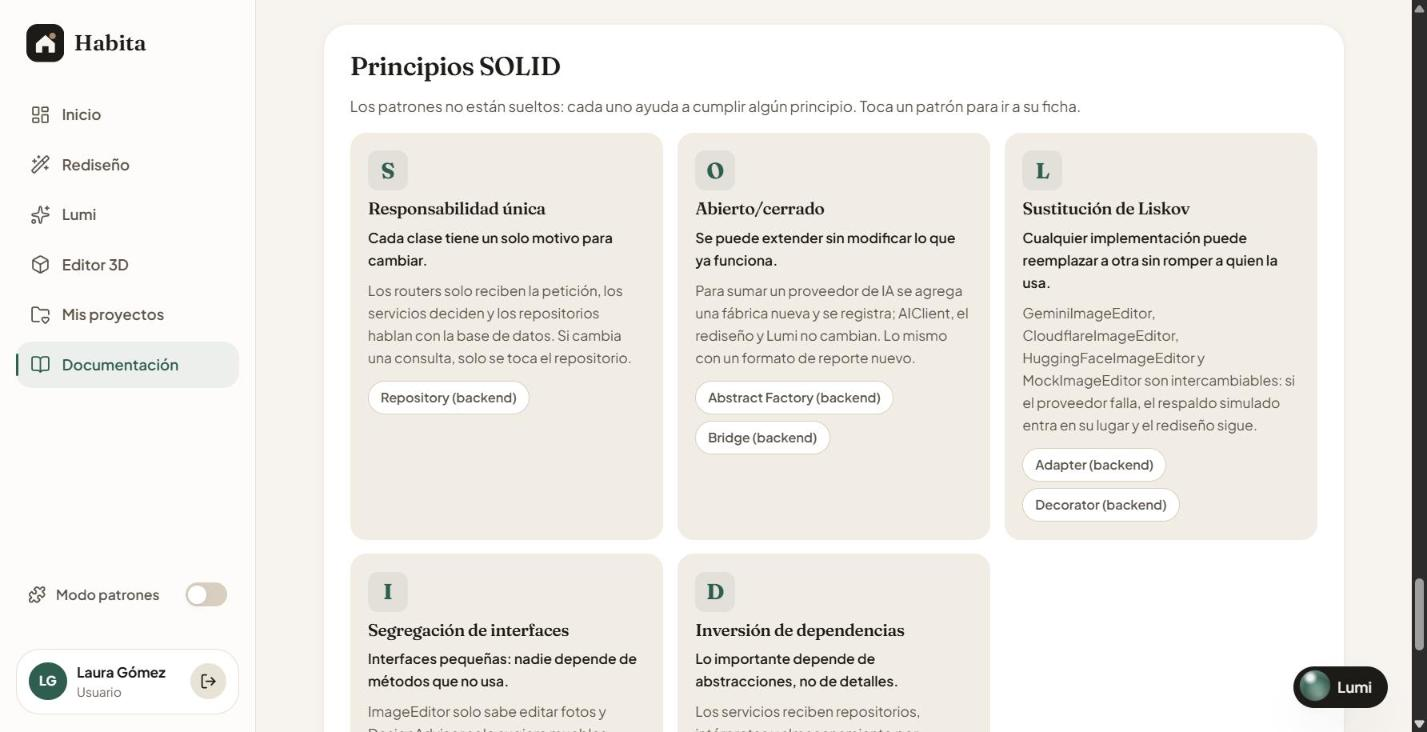
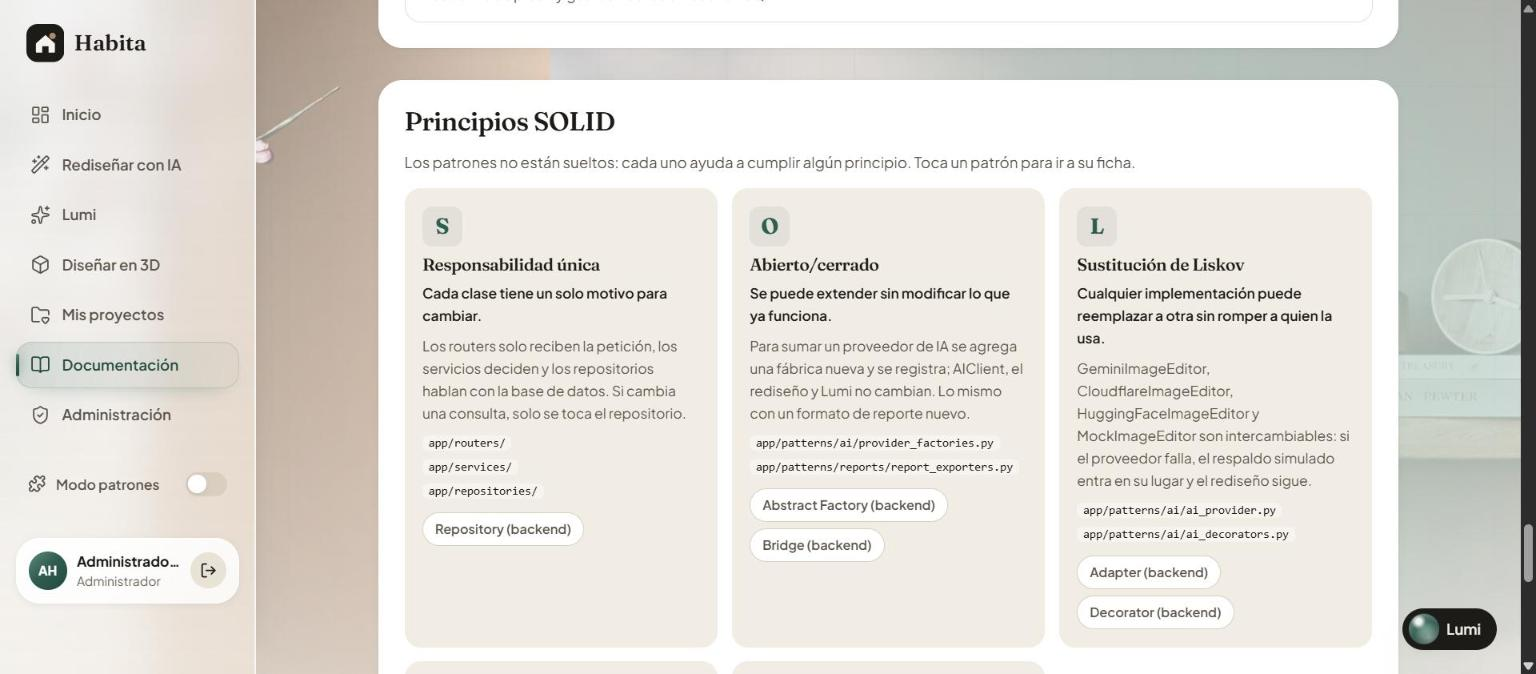
docs: final README with updated screenshots, features and patterns

diff --git a/README.md b/README.md
@@ -1,107 +1,173 @@
 <div align="center">
 
+<img src="public/favicon.svg" alt="" width="64" height="64" />
+
 # Habita · Frontend
 
 **Diseño de interiores con inteligencia artificial y modelado 3D.**
 
 Proyecto final de **Patrones de Diseño**
 
+[**Abrir la app**](https://decora-ia-frontend.vercel.app) · [Backend](https://github.com/Santiago425/decora-ia-backend) · [API (Swagger)](https://decora-ia-backend.onrender.com/api/v1/docs)
+
 ![React](https://img.shields.io/badge/React-18-61DAFB?logo=react&logoColor=black)
 ![TypeScript](https://img.shields.io/badge/TypeScript-5-3178C6?logo=typescript&logoColor=white)
 ![Vite](https://img.shields.io/badge/Vite-6-646CFF?logo=vite&logoColor=white)
 ![Three.js](https://img.shields.io/badge/Three.js-R3F-000000?logo=threedotjs&logoColor=white)
+![Vitest](https://img.shields.io/badge/Vitest-206_pruebas-6E9F18?logo=vitest&logoColor=white)
 ![Vercel](https://img.shields.io/badge/Deploy-Vercel-000000?logo=vercel&logoColor=white)
 ![CI](https://github.com/Santiago425/decora-ia-frontend/actions/workflows/ci.yml/badge.svg)
 
 </div>
 
+![Inicio de Habita en el computador](docs/screenshots/dashboard.jpg)
+
+## Contenido
+
+- [¿En qué consiste?](#en-qué-consiste)
+- [Capturas](#capturas)
+- [Funcionalidades](#funcionalidades)
+- [Guía rápida para la evaluación](#guía-rápida-para-la-evaluación)
+- [Patrones aplicados en el frontend](#patrones-aplicados-en-el-frontend)
+- [Arquitectura](#arquitectura)
+- [Calidad](#calidad)
+- [Ejecutar en local](#ejecutar-en-local)
+- [Variables de entorno](#variables-de-entorno)
+- [Estructura](#estructura)
+- [Equipo](#equipo)
+
 ## ¿En qué consiste?
 
-**Habita** permite tomar o subir una foto de un espacio, elegir un estilo y ver cómo quedaría rediseñado por la IA, armar el espacio en un editor 3D con muebles reales del catálogo, calcular un presupuesto y guardar proyectos. **Lumi**, la asistente, guía al usuario por voz o texto.
+**Habita** permite tomar o subir una foto de un espacio, elegir un estilo y ver cómo quedaría rediseñado por la IA, armar el espacio en un editor 3D con muebles reales del catálogo, sacar la lista de compras con su presupuesto y guardar todo como proyectos. **Lumi**, la asistente, guía al usuario por voz o texto y ejecuta lo que se le pide dentro de la app.
 
 | Componente | Repositorio                                                             | Producción                                          |
 | ---------- | ----------------------------------------------------------------------- | --------------------------------------------------- |
 | Frontend   | [decora-ia-frontend](https://github.com/Santiago425/decora-ia-frontend) | https://decora-ia-frontend.vercel.app               |
 | Backend    | [decora-ia-backend](https://github.com/Santiago425/decora-ia-backend)   | https://decora-ia-backend.onrender.com/api/v1/hello |
 
-## Capturas
-
-Tomadas de la app desplegada en Vercel con la cuenta de prueba.
-
-| Login con acceso de prueba                                   | Inicio                                                   |
-| ------------------------------------------------------------ | -------------------------------------------------------- |
-| ![Login](docs/screenshots/login.jpg)                         | ![Inicio](docs/screenshots/dashboard.jpg)                |
-| **Rediseño con foto (antes / después)**                      | **Ediciones puntuales sobre el rediseño**                |
-| ![Rediseño](docs/screenshots/rediseno.jpg)                   | ![Ediciones](docs/screenshots/ediciones-puntuales.jpg)   |
-| **Editor 3D**                                                | **Mis proyectos con su foto**                            |
-| ![Editor 3D](docs/screenshots/editor-3d.jpg)                 | ![Mis proyectos](docs/screenshots/mis-proyectos.jpg)     |
-| **Estilo desde una foto de inspiración**                     | **Panel de administración**                              |
-| ![Inspiración](docs/screenshots/inspiracion.jpg)             | ![Administración](docs/screenshots/admin.jpg)            |
-| **Modo patrones en el editor**                               | **Ficha de un patrón con demo y UML**                    |
-| ![Modo patrones](docs/screenshots/modo-patrones.jpg)         | ![Ficha de patrón](docs/screenshots/ficha-patron.jpg)    |
-| **Lumi**                                                     | **Lumi ejecutando órdenes en el editor**                 |
-| ![Lumi](docs/screenshots/lumi.jpg)                           | ![Lumi en el editor](docs/screenshots/lumi-editor.jpg)   |
-| **Documentación**                                            | **Principios SOLID**                                     |
-| ![Documentación](docs/screenshots/documentacion.jpg)         | ![SOLID](docs/screenshots/solid.jpg)                     |
-| **Inicio en el celular**                                     | **Lumi en el celular**                                   |
-| ![Inicio en el celular](docs/screenshots/inicio-celular.jpg) | ![Lumi en el celular](docs/screenshots/lumi-celular.jpg) |
-
-## Funcionalidades
-
-| Sección                   | Qué hace                                                                                                                                                                                                                     |
-| ------------------------- | ---------------------------------------------------------------------------------------------------------------------------------------------------------------------------------------------------------------------------- |
-| **Login y registro**      | Login con selector Usuario / Administrador, validaciones en vivo, sesión con JWT y **acceso de prueba** con un clic (las cuentas salen del backend).                                                                         |
-| **Inicio**                | Resumen de proyectos, rediseños, estilo favorito y presupuesto, con gráfica de estilos y actividad reciente.                                                                                                                 |
-| **Rediseño con foto**     | Sube o toma una foto con la cámara del celular, elige habitación, estilo, paleta y presupuesto; la IA devuelve la imagen rediseñada, colores, muebles y materiales con precio. Comparador antes / después y variaciones.     |
-| **Estilo desde una foto** | Sobre un rediseño: subir una foto de un espacio que guste; la IA describe su estilo, colores y materiales y ese texto se aplica a la foto como una versión nueva, marcada «Inspirado en tu foto».                            |
-| **Ediciones puntuales**   | Sobre un rediseño: pintar paredes, cambiar el piso, borrar un objeto o cambiar un mueble sin tocar el resto de la foto. Opción para respetar el cuarto real (paredes, ventanas y puertas) y elegir muebles que se conservan. |
-| **Editor 3D**             | Arma la habitación con muebles del catálogo: mover, rotar, duplicar, agrupar, colores, acabados y complementos, deshacer y rehacer, vista de planta, captura, versiones y guardado automático.                               |
-| **Lumi**                  | Asistente por voz o texto. Entiende lo que pides y lo hace: crea proyectos, te lleva al rediseño, agrega muebles, pinta paredes, cambia la luz o deshace cambios. Puede leer sus respuestas en voz alta.                     |
-| **Mis proyectos**         | Buscar, filtrar por estado o tipo, ordenar, renombrar, duplicar y eliminar. Cada proyecto con foto muestra su antes / después y lo abre al tocarlo.                                                                          |
-| **Administración**        | Solo para administradores: métricas de la plataforma, usuarios (rol y activación), catálogo (precios, muebles nuevos, estilos y complementos visibles) y reportes CSV.                                                       |
-| **Modo patrones**         | Interruptor del menú: cada pantalla muestra qué patrones usa; al tocar uno se abre su ficha con problema, solución, una demo interactiva y el diagrama UML.                                                                  |
-| **Documentación**         | Arquitectura, cuentas de prueba, diagrama entidad relación, cada patrón con su problema, solución, archivos y diagrama UML (Mermaid), y los principios SOLID con los patrones que los cumplen.                               |
-
-## Guía rápida para la evaluación
-
-1. Abrir https://decora-ia-frontend.vercel.app (si el backend estuvo dormido, el primer ingreso tarda unos segundos en Render).
-2. Entrar como **Usuario** con el botón de _Acceso de prueba_ (o con `usuario@habita.app` / `Habita2026`).
-3. **Rediseño:** subir una foto de una sala, elegir _Japandi_ y ver el antes / después con su presupuesto.
-4. **Editor 3D:** abrir un proyecto, mover un mueble, agregarle cojines y probar _Deshacer_ (Ctrl + Z).
-5. **Lumi:** tocar el botón flotante y decir o escribir _"agrega una planta"_ y _"pinta las paredes verde salvia"_.
-6. **Estilo desde una foto:** en el rediseño, tocar _Usar inspiración_, subir una foto que guste y _Aplicar este estilo_.
-7. **Ediciones puntuales:** en el rediseño, tocar _Editar una parte_ y pintar las paredes de otro color.
-8. **Modo patrones:** activar el interruptor del menú y tocar un patrón para ver su ficha, su demo y su UML.
-9. **Documentación:** mostrar los patrones con sus diagramas UML, los principios SOLID y el diagrama de la base de datos.
-10. Cerrar sesión y entrar como **Administrador** con `admin@habita.app` / `Habita2026` para ver métricas, usuarios, catálogo y reportes.
-
-## Patrones aplicados en el frontend
-
-| Patrón               | Tipo           | Dónde                                                                      | Para qué                                                                                                                                                                                           |
-| -------------------- | -------------- | -------------------------------------------------------------------------- | -------------------------------------------------------------------------------------------------------------------------------------------------------------------------------------------------- |
-| **Singleton**        | Creacional     | [`src/services/apiClient.ts`](src/services/apiClient.ts)                   | Un único cliente HTTP con el token de la sesión para toda la app.                                                                                                                                  |
-| **Observer**         | Comportamiento | [`src/services/notificationCenter.ts`](src/services/notificationCenter.ts) | Cualquier parte de la app publica un aviso y los suscriptores (como el `Toaster`) reaccionan sin conocerse entre sí.                                                                               |
-| **Proxy**            | Estructural    | [`src/components/ImageProxy.tsx`](src/components/ImageProxy.tsx)           | Ocupa el lugar de la imagen real: la carga solo cuando entra en pantalla y muestra un marcador mientras tanto.                                                                                     |
-| **Command**          | Comportamiento | [`src/editor/commands.ts`](src/editor/commands.ts)                         | Agregar, mover, rotar, eliminar, cambiar color o complementos, agrupar y restaurar versiones son objetos que saben aplicarse y revertirse: así funcionan deshacer y rehacer (Ctrl + Z / Ctrl + Y). |
-| **Factory Method**   | Creacional     | [`src/editor/furnitureFactory.ts`](src/editor/furnitureFactory.ts)         | Cada tipo de mueble (sofá, cama, mesa, silla, lámpara, planta…) tiene su fábrica que decide de qué piezas 3D está hecho; la forma viene de la categoría guardada en la base de datos.              |
-| **Composite**        | Estructural    | [`src/editor/composite.ts`](src/editor/composite.ts)                       | Un mueble, un grupo de muebles y la habitación completa se cotizan, cuentan, mueven y duplican de la misma forma.                                                                                  |
-| **Prototype**        | Creacional     | [`src/editor/composite.ts`](src/editor/composite.ts)                       | Duplicar un mueble o un grupo clona la pieza con identificadores nuevos.                                                                                                                           |
-| **Decorator**        | Estructural    | [`src/editor/furnitureDecorators.ts`](src/editor/furnitureDecorators.ts)   | Cojines, manta, cubierta de vidrio, patas de latón o luz LED envuelven al mueble y le suman precio y apariencia sin modificar su clase.                                                            |
-| **Abstract Factory** | Creacional     | [`src/editor/styleTheme.ts`](src/editor/styleTheme.ts)                     | `StyleThemeFactory`: cada estilo produce una familia coherente de luz, acabado de paredes, piso y colores de acento.                                                                               |
-| **Observer**         | Comportamiento | [`src/editor/editorStore.ts`](src/editor/editorStore.ts)                   | El lienzo 3D, los paneles y la barra de herramientas se suscriben al estado del editor y se actualizan cuando cambia la escena.                                                                    |
-| **Adapter**          | Estructural    | [`src/assistant/voiceAdapter.ts`](src/assistant/voiceAdapter.ts)           | `VoiceAdapter` envuelve el reconocimiento de voz y la síntesis del navegador (con nombres distintos según el navegador) en una interfaz simple: escuchar, hablar y detener.                        |
-| **Observer**         | Comportamiento | [`src/assistant/assistantBus.ts`](src/assistant/assistantBus.ts)           | Lumi publica sus acciones y quien puede ejecutarlas se suscribe: el enrutador abre páginas y proyectos, el editor 3D agrega muebles, cambia paredes, luz o estilo y deshace.                       |
-| **Strategy**         | Comportamiento | [`src/projects/projectQuery.ts`](src/projects/projectQuery.ts)             | Mis proyectos se ordena por fecha, nombre o presupuesto: cada orden es una estrategia intercambiable.                                                                                              |
-| **Observer**         | Comportamiento | [`src/assistant/chatStore.ts`](src/assistant/chatStore.ts)                 | El chat flotante y la página de Lumi comparten la misma conversación y se mantienen sincronizados.                                                                                                 |
-
-## Cuentas de prueba
-
 | Rol           | Correo               | Contraseña   |
 | ------------- | -------------------- | ------------ |
 | Usuario       | `usuario@habita.app` | `Habita2026` |
 | Administrador | `admin@habita.app`   | `Habita2026` |
 
-Las crea el script de semilla del backend; la contraseña sale de la variable `DEMO_PASSWORD`.
+En el login también está el **acceso de prueba**: un clic y se entra con cualquiera de las dos cuentas. Las crea el script de semilla del backend y la contraseña sale de la variable `DEMO_PASSWORD`.
+
+## Capturas
+
+Tomadas de la app desplegada en Vercel con las cuentas de prueba.
+
+### En el computador
+
+| Login con acceso de prueba                            | Rediseñar con IA                                                    |
+| ----------------------------------------------------- | ------------------------------------------------------------------- |
+| ![Login](docs/screenshots/login.jpg)                  | ![Formulario de rediseño](docs/screenshots/rediseno-formulario.jpg) |
+| **Rediseño real con FLUX Kontext: antes y después**   | **Ediciones puntuales sobre el rediseño**                           |
+| ![Rediseño](docs/screenshots/rediseno.jpg)            | ![Ediciones puntuales](docs/screenshots/ediciones-puntuales.jpg)    |
+| **Editor 3D con medidas y un mueble seleccionado**    | **Recorrido a la altura de los ojos**                               |
+| ![Editor 3D](docs/screenshots/editor-3d.jpg)          | ![Recorrido](docs/screenshots/recorrido.jpg)                        |
+| **Lista de compras con presupuesto**                  | **Mis proyectos con filtros**                                       |
+| ![Lista de compras](docs/screenshots/compras.jpg)     | ![Mis proyectos](docs/screenshots/mis-proyectos.jpg)                |
+| **Lumi**                                              | **Estilo desde una foto de inspiración**                            |
+| ![Lumi](docs/screenshots/lumi.jpg)                    | ![Inspiración](docs/screenshots/inspiracion.jpg)                    |
+| **Panel de administración**                           | **Modo patrones (administradores)**                                 |
+| ![Administración](docs/screenshots/admin.jpg)         | ![Modo patrones](docs/screenshots/modo-patrones.jpg)                |
+| **Ficha de un patrón con su UML**                     | **Documentación y principios SOLID**                                |
+| ![Ficha de patrón](docs/screenshots/ficha-patron.jpg) | ![SOLID](docs/screenshots/solid.jpg)                                |
+
+### En el celular
+
+<!-- mobile-gallery -->
+
+| Inicio                                                       | Lumi                                                     |
+| ------------------------------------------------------------ | -------------------------------------------------------- |
+| ![Inicio en el celular](docs/screenshots/inicio-celular.jpg) | ![Lumi en el celular](docs/screenshots/lumi-celular.jpg) |
+
+<!-- /mobile-gallery -->
+
+## Funcionalidades
+
+| Sección                   | Qué hace                                                                                                                                                                                                                                                                                       |
+| ------------------------- | ---------------------------------------------------------------------------------------------------------------------------------------------------------------------------------------------------------------------------------------------------------------------------------------------- |
+| **Login y registro**      | Login sobre fotos de interiores con un cuarto 3D, selector Usuario / Administrador, validaciones en vivo, sesión con JWT y **acceso de prueba** con un clic (las cuentas salen del backend).                                                                                                   |
+| **Inicio**                | Saludo con accesos directos, totales (proyectos, rediseños, estilo favorito, presupuesto), últimos proyectos con su antes / después, progreso por estado, galería de inspiración en coverflow y los **17 estilos** del catálogo.                                                               |
+| **Rediseñar con IA**      | Sube o toma una foto con la cámara del celular, elige habitación, estilo, paleta y presupuesto. **FLUX Kontext** (Hugging Face) devuelve la foto rediseñada y Gemini los colores, muebles y materiales con precio. Comparador antes / después, otra versión, versiones por proyecto y borrado. |
+| **Ediciones puntuales**   | Sobre un rediseño: pintar paredes, cambiar el piso, borrar un objeto o cambiar un mueble sin tocar el resto de la foto. Opción para respetar el cuarto real (paredes, ventanas y puertas) y elegir muebles que se conservan.                                                                   |
+| **Estilo desde una foto** | Se sube una foto de un espacio que guste; la IA describe su estilo, colores y materiales y ese texto se aplica a la foto como una versión nueva, marcada «Inspirado en tu foto».                                                                                                               |
+| **Errores claros**        | Si el proveedor de imágenes falla o devuelve la misma foto, la app lo dice y ofrece reintentar, en vez de mostrar una copia como si fuera un rediseño.                                                                                                                                         |
+| **Diseñar en 3D**         | Proyecto nuevo con tipo de habitación, estilo y **medidas del cuarto** (o tamaños rápidos). El catálogo sugiere los muebles **del tipo de habitación**. Mover, rotar, duplicar, agrupar, **cambiar el tamaño**, pegar a la pared, colores, acabados y complementos; deshacer y rehacer.        |
+| **Medidas y recorrido**   | Guías de medidas con distancias a las paredes, aviso cuando dos muebles **se cruzan**, vista de planta, **recorrido** a la altura de los ojos desde cada esquina, **tono de luz**, captura, versiones y guardado automático.                                                                   |
+| **Lista de compras**      | Cada proyecto saca su lista: muebles, complementos y acabados con cantidades calculadas desde la escena y precios del catálogo. Presupuesto con medidor, marcar lo ya comprado, incluir las ideas del rediseño, descarga en CSV e impresión o PDF.                                             |
+| **Lumi**                  | Asistente por voz o texto. Entiende lo que pides y lo hace: crea proyectos, te lleva al rediseño, agrega muebles, pinta paredes, cambia la luz o deshace cambios. Puede leer sus respuestas en voz alta.                                                                                       |
+| **Mis proyectos**         | Buscar, filtrar por estado, tipo, estilo, habitación y fecha, ordenar, renombrar, duplicar, ir a la lista de compras y eliminar. Cada proyecto con foto muestra su antes / después y lo abre al tocarlo.                                                                                       |
+| **Administración**        | Solo para administradores: métricas de la plataforma, usuarios (rol y activación), catálogo (precios, muebles nuevos, estilos y complementos visibles) y reportes CSV / JSON.                                                                                                                  |
+| **Modo patrones**         | Para administradores: un interruptor del menú muestra qué patrones usa cada pantalla; al tocar uno se abre su ficha con problema, solución, una demo interactiva y el diagrama UML.                                                                                                            |
+| **Documentación**         | Para administradores: arquitectura, cuentas de prueba, diagrama entidad relación, los 23 patrones con su problema, solución, archivos y diagrama UML (Mermaid), y los principios SOLID con los patrones que los cumplen.                                                                       |
+| **Diseño visual**         | Paleta lino con acento salvia (`#2f5d50`), tarjetas de vidrio esmerilado, fondo de fotos de interiores animado detrás de cada página, intro 3D, tarjetas con inclinación y volteo, y carga diferida de cada página.                                                                            |
+| **Celular**               | Menú inferior con «Más», cámara para la foto, editor 3D con panel deslizable desde abajo y todas las secciones adaptadas a pantallas pequeñas.                                                                                                                                                 |
+
+## Guía rápida para la evaluación
+
+1. Abrir https://decora-ia-frontend.vercel.app (si el backend estuvo dormido, el primer ingreso tarda unos segundos en Render).
+2. Entrar como **Usuario** con el botón de _Acceso de prueba_.
+3. **Rediseño:** subir una foto de una sala, elegir _Industrial_ y ver el antes / después con su presupuesto. Probar _Otra versión igual_ o _Probar con otras opciones_.
+4. **Ediciones puntuales:** en el rediseño, tocar _Editar una parte_ y pintar las paredes de otro color.
+5. **Estilo desde una foto:** en el rediseño, tocar _Usar inspiración_, subir una foto que guste y _Aplicar este estilo_.
+6. **Editor 3D:** en _Diseñar en 3D_ crear una sala de 5 × 4 m, tocar el sofá, activar _Medidas_, cambiarle el tamaño, probar _Recorrido_ y _Deshacer_ (Ctrl + Z).
+7. **Lista de compras:** desde el editor o desde _Mis proyectos_, abrir la bolsa, fijar un presupuesto y marcar algo como comprado.
+8. **Lumi:** tocar el botón flotante y decir o escribir _"agrega una planta"_ y _"pinta las paredes verde salvia"_.
+9. Cerrar sesión y entrar como **Administrador** para ver métricas, usuarios, catálogo y reportes.
+10. Como administrador, activar **Modo patrones** en el menú y tocar un patrón para ver su ficha, su demo y su UML; luego abrir **Documentación** para los diagramas, los principios SOLID y la base de datos.
+
+## Patrones aplicados en el frontend
+
+El proyecto aplica **23 patrones** en **36 usos** entre los dos repositorios. Estos son los del frontend; los del backend están en su [README](https://github.com/Santiago425/decora-ia-backend#patrones-aplicados).
+
+| Patrón               | Tipo           | Dónde                                                                                                        | Para qué                                                                                                                                                                                     |
+| -------------------- | -------------- | ------------------------------------------------------------------------------------------------------------ | -------------------------------------------------------------------------------------------------------------------------------------------------------------------------------------------- |
+| **Singleton**        | Creacional     | [`src/services/apiClient.ts`](src/services/apiClient.ts)                                                     | Un único cliente HTTP con el token de la sesión para toda la app.                                                                                                                            |
+| **Factory Method**   | Creacional     | [`src/editor/furnitureFactory.ts`](src/editor/furnitureFactory.ts)                                           | Cada tipo de mueble (sofá, cama, mesa, silla, lámpara, planta…) tiene su fábrica que decide de qué piezas 3D está hecho; la forma viene de la categoría guardada en la base de datos.        |
+| **Abstract Factory** | Creacional     | [`src/editor/styleTheme.ts`](src/editor/styleTheme.ts)                                                       | `StyleThemeFactory`: cada estilo produce una familia coherente de luz, acabado de paredes, piso y colores de acento.                                                                         |
+| **Prototype**        | Creacional     | [`src/editor/composite.ts`](src/editor/composite.ts)                                                         | Duplicar un mueble o un grupo clona la pieza con identificadores nuevos.                                                                                                                     |
+| **Composite**        | Estructural    | [`src/editor/composite.ts`](src/editor/composite.ts)                                                         | Un mueble, un grupo de muebles y la habitación completa se cotizan, cuentan, mueven y duplican de la misma forma.                                                                            |
+| **Decorator**        | Estructural    | [`src/editor/furnitureDecorators.ts`](src/editor/furnitureDecorators.ts)                                     | Cojines, manta, cubierta de vidrio, patas de latón o luz LED envuelven al mueble y le suman precio y apariencia sin modificar su clase.                                                      |
+| **Adapter**          | Estructural    | [`src/assistant/voiceAdapter.ts`](src/assistant/voiceAdapter.ts)                                             | `VoiceAdapter` envuelve el reconocimiento de voz y la síntesis del navegador (con nombres distintos según el navegador) en una interfaz simple: escuchar, hablar y detener.                  |
+| **Proxy**            | Estructural    | [`src/components/ImageProxy.tsx`](src/components/ImageProxy.tsx)                                             | Ocupa el lugar de la imagen real: la carga solo cuando entra en pantalla y muestra un marcador mientras tanto.                                                                               |
+| **Proxy virtual**    | Estructural    | [`src/utils/lazyWithPreload.ts`](src/utils/lazyWithPreload.ts), [`src/routes/pages.ts`](src/routes/pages.ts) | Cada página se descarga solo cuando hace falta, y se adelanta al pasar el mouse o el dedo por su enlace.                                                                                     |
+| **Command**          | Comportamiento | [`src/editor/commands.ts`](src/editor/commands.ts)                                                           | Agregar, mover, rotar, cambiar tamaño, eliminar, cambiar color o complementos, agrupar y restaurar versiones son objetos que saben aplicarse y revertirse: así funcionan deshacer y rehacer. |
+| **Mediator**         | Comportamiento | [`src/editor/editorMediator.ts`](src/editor/editorMediator.ts)                                               | El lienzo, el catálogo, el inspector, el teclado y Lumi no se hablan entre sí: todos pasan por `EditorMediator`, que decide qué comando ejecutar y qué panel mostrar.                        |
+| **Strategy**         | Comportamiento | [`src/projects/projectQuery.ts`](src/projects/projectQuery.ts)                                               | Mis proyectos se ordena por fecha, nombre o presupuesto: cada orden es una estrategia intercambiable.                                                                                        |
+| **Observer**         | Comportamiento | [`src/services/notificationCenter.ts`](src/services/notificationCenter.ts)                                   | Cualquier parte de la app publica un aviso y los suscriptores (como el `Toaster`) reaccionan sin conocerse entre sí.                                                                         |
+| **Observer**         | Comportamiento | [`src/editor/editorStore.ts`](src/editor/editorStore.ts)                                                     | El lienzo 3D, los paneles y la barra de herramientas se suscriben al estado del editor y se actualizan cuando cambia la escena.                                                              |
+| **Observer**         | Comportamiento | [`src/assistant/assistantBus.ts`](src/assistant/assistantBus.ts)                                             | Lumi publica sus acciones y quien puede ejecutarlas se suscribe: el enrutador abre páginas y proyectos, el editor 3D agrega muebles, cambia paredes, luz o estilo y deshace.                 |
+| **Observer**         | Comportamiento | [`src/assistant/chatStore.ts`](src/assistant/chatStore.ts)                                                   | El chat flotante y la página de Lumi comparten la misma conversación y se mantienen sincronizados.                                                                                           |
+
+## Arquitectura
+
+```mermaid
+flowchart LR
+    P[pages<br/>pantallas] --> C[components<br/>piezas de interfaz]
+    P --> S[services<br/>un servicio por recurso]
+    S --> A[apiClient<br/>Singleton con JWT]
+    A -->|REST| B[(Backend FastAPI)]
+    P --> E[editor<br/>comandos, mediador, composite]
+    E --> T[components/editor<br/>React Three Fiber]
+    L[assistant<br/>Lumi, voz y bus] -.acciones.-> E
+    L -.acciones.-> P
+```
+
+- **Nada quemado:** textos de la marca, URL del backend, tiempos, medidas del editor, moneda y fotos salen de [`src/config.ts`](src/config.ts), que lee las variables `VITE_*`; el catálogo, los estilos y los precios vienen del backend.
+- **Carga diferida:** cada página y las piezas pesadas (Three.js, Mermaid, gráficas) van en su propio paquete.
+- **Accesibilidad:** navegación con teclado en pestañas y diálogos, etiquetas en todos los controles y `eslint-plugin-jsx-a11y` en el CI.
+
+## Calidad
+
+- **206 pruebas** en 48 archivos con Vitest:
+  - **Interfaz** (Testing Library + jsdom), con los flujos principales de punta a punta: **login** (validaciones, error del servidor, acceso de prueba), **rediseño** (foto, habitación y estilo, antes / después, error y reintento, nueva versión), **editor 3D** (muebles sugeridos, agregar, deshacer y rehacer, eliminar, guardado automático, órdenes de Lumi, solo lectura), **Lumi** (historial, mensajes, sugerencias que ejecutan acciones, borrar), **Mis proyectos** (filtros, renombrar, duplicar, eliminar) y **administración** (totales, roles, activar cuentas, reportes). También botones, pestañas con teclado, paginador, formularios, diálogos, rutas protegidas y la lista de compras.
+  - **Lógica:** comandos de deshacer / rehacer, fábricas de muebles, composite, mediador del editor, guías de medidas y choques, recorrido, filtros y orden de proyectos, bus de Lumi, conversación, adaptador de voz, modo patrones, formatos y validaciones.
+- **ESLint** (typescript-eslint, react-hooks, jsx-a11y) y **Prettier** sin advertencias.
+- **Integración continua** con GitHub Actions: en cada push y pull request se ejecutan lint, formato, pruebas, compilación y la imagen de Docker.
+- Revisión manual en PC y celular de la app desplegada.
+- Despliegue automático en **Vercel** desde `main`, con cabeceras de seguridad (CSP, HSTS, permisos de cámara y micrófono) en [`vercel.json`](vercel.json).
 
 ## Ejecutar en local
 
@@ -111,7 +177,7 @@ cp .env.example .env
 npm run dev        # http://localhost:5173
 npm run lint       # ESLint (typescript-eslint, react-hooks, jsx-a11y)
 npm run format     # Prettier
-npm test
+npm test           # Vitest
 npm run build
 ```
 
@@ -122,65 +188,59 @@ docker build -t habita-frontend --build-arg VITE_API_URL=http://localhost:8000 .
 docker run -p 8080:80 habita-frontend      # http://localhost:8080
 ```
 
-## Calidad
-
-- **107 pruebas** con Vitest:
-  - **Lógica:** comandos de deshacer / rehacer, fábricas de muebles, composite, mediador del editor, filtros y orden de proyectos, bus de Lumi, conversación, adaptador de voz, modo patrones, formatos y validaciones.
-  - **Interfaz** (Testing Library + jsdom): botones, pestañas con teclado, paginador, campos de formulario, diálogo de confirmación, acceso de prueba, rutas protegidas y el flujo completo del login.
-- **ESLint** (typescript-eslint, react-hooks, jsx-a11y) y **Prettier** sin advertencias.
-- **Integración continua** con GitHub Actions: en cada push y pull request se ejecutan lint, formato, pruebas, compilación y la imagen de Docker.
-- Revisión manual en PC y celular antes de la entrega.
-- Despliegue automático en **Vercel** desde `main`, con cabeceras de seguridad (CSP, HSTS, permisos de cámara y micrófono) en [`vercel.json`](vercel.json).
-
 ## Variables de entorno
 
 Todas están documentadas en [`.env.example`](.env.example) y se leen en un único módulo: [`src/config.ts`](src/config.ts).
 
-| Variable                                                                               | Para qué                                                                               |
-| -------------------------------------------------------------------------------------- | -------------------------------------------------------------------------------------- |
-| `VITE_APP_NAME`                                                                        | Nombre de la app en la interfaz                                                        |
-| `VITE_ASSISTANT_NAME`                                                                  | Nombre de la asistente (el reconocimiento y la voz usan `VITE_LOCALE`)                 |
-| `VITE_API_URL` / `VITE_API_PREFIX`                                                     | Dirección del backend                                                                  |
-| `VITE_REQUEST_TIMEOUT_MS`                                                              | Tiempo máximo de espera de una petición                                                |
-| `VITE_AI_TIMEOUT_MS`                                                                   | Tiempo máximo de espera de un rediseño con IA                                          |
-| `VITE_MAX_PHOTO_SIDE`                                                                  | Tamaño máximo al que se reduce la foto antes de subirla                                |
-| `VITE_CURRENCY` / `VITE_LOCALE`                                                        | Moneda y formato de precios                                                            |
-| `VITE_EDITOR_SNAP`, `VITE_EDITOR_MOVE_STEP`, `VITE_EDITOR_ROTATE_STEP`                 | Cuadrícula, paso al mover con flechas y grados al rotar en el editor 3D                |
-| `VITE_EDITOR_HISTORY_LIMIT`, `VITE_EDITOR_AUTOSAVE_MS`, `VITE_EDITOR_DUPLICATE_OFFSET` | Pasos que se pueden deshacer, espera del guardado automático y separación de una copia |
-| `VITE_AUTH_IMAGE_URL`                                                                  | Foto de fondo del login                                                                |
-| `VITE_DASHBOARD_BANNER_URL`                                                            | Foto del banner del inicio                                                             |
-| `VITE_DASHBOARD_BACKDROP_URL` / `VITE_EMPTY_STATE_IMAGE_URL`                           | Foto de fondo del inicio y foto de los estados vacíos                                  |
-| `VITE_PHOTO_INTERVAL_MS`                                                               | Tiempo que se muestra cada foto de un carrusel                                         |
-| `VITE_DEV_PORT`                                                                        | Puerto del servidor de desarrollo                                                      |
-| `VITE_PHOTO_CREDITS_NAME` / `VITE_PHOTO_CREDITS_URL`                                   | Créditos de las fotos                                                                  |
+| Variable                                                                                 | Para qué                                                                               |
+| ---------------------------------------------------------------------------------------- | -------------------------------------------------------------------------------------- |
+| `VITE_APP_NAME`                                                                          | Nombre de la app en la interfaz                                                        |
+| `VITE_ASSISTANT_NAME`                                                                    | Nombre de la asistente (el reconocimiento y la voz usan `VITE_LOCALE`)                 |
+| `VITE_API_URL` / `VITE_API_PREFIX`                                                       | Dirección del backend                                                                  |
+| `VITE_REQUEST_TIMEOUT_MS` / `VITE_AI_TIMEOUT_MS`                                         | Tiempo máximo de espera de una petición normal y de un rediseño con IA                 |
+| `VITE_MAX_PHOTO_SIDE`                                                                    | Tamaño máximo al que se reduce la foto antes de subirla                                |
+| `VITE_CURRENCY` / `VITE_LOCALE`                                                          | Moneda y formato de precios                                                            |
+| `VITE_EDITOR_SNAP`, `VITE_EDITOR_MOVE_STEP`, `VITE_EDITOR_ROTATE_STEP`                   | Cuadrícula, paso al mover con flechas y grados al rotar en el editor 3D                |
+| `VITE_EDITOR_HISTORY_LIMIT`, `VITE_EDITOR_AUTOSAVE_MS`, `VITE_EDITOR_DUPLICATE_OFFSET`   | Pasos que se pueden deshacer, espera del guardado automático y separación de una copia |
+| `VITE_EDITOR_OVERLAP_TOLERANCE`, `VITE_EDITOR_EYE_HEIGHT`                                | Margen para avisar que dos muebles se cruzan y altura de la cámara en el recorrido     |
+| `VITE_ROOM_SIZE_PRESETS`                                                                 | Tamaños rápidos del cuarto al crear un proyecto 3D                                     |
+| `VITE_EDITOR_RESIZE_MIN_FACTOR` / `VITE_EDITOR_RESIZE_MAX_FACTOR`                        | Cuánto puede encogerse o crecer un mueble respecto a su tamaño de catálogo             |
+| `VITE_AUTH_IMAGE_URL`, `VITE_SIDEBAR_PHOTO_URL`, `VITE_PAGE_BACKDROP_URL`                | Fotos del login, de la tarjeta del menú y del fondo animado de cada página             |
+| `VITE_DASHBOARD_BANNER_URL`, `VITE_DASHBOARD_BACKDROP_URL`, `VITE_EMPTY_STATE_IMAGE_URL` | Fotos del banner del inicio, de los estados vacíos y de la página 404                  |
+| `VITE_PHOTO_WIDTHS`, `VITE_PHOTO_DEFAULT_WIDTH`, `VITE_PHOTO_QUALITY`                    | Anchos y calidad con que se piden las fotos de fondo para que se vean nítidas          |
+| `VITE_PHOTO_INTERVAL_MS`                                                                 | Tiempo que se muestra cada foto de un carrusel                                         |
+| `VITE_RECENT_REDESIGNS_LIMIT`                                                            | Cuántos rediseños recientes se muestran debajo del formulario                          |
+| `VITE_PHOTO_CREDITS_NAME` / `VITE_PHOTO_CREDITS_URL`                                     | Créditos de las fotos                                                                  |
+| `VITE_DEV_PORT`                                                                          | Puerto del servidor de desarrollo                                                      |
 
 ## Estructura
 
 ```
 src/
-├── config.ts        Configuración leída de VITE_*
-├── pages/           Login, Register, Dashboard…
-├── components/layout/ Menú lateral y menú inferior del celular
-├── components/dashboard/ Tarjetas, gráfica, actividad y proyectos
-├── components/editor/ Lienzo 3D (React Three Fiber), catálogo, propiedades y versiones
-├── editor/          Lógica del editor 3D: comandos, fábricas, composite, decoradores, temas
-├── components/admin/ Panel de administración: resumen, usuarios, catálogo y reportes
-├── components/docs/ Diagramas UML con Mermaid
-├── docs/            Contenido de la sección Documentación (patrones, arquitectura, diagrama ER)
-├── projects/        Búsqueda, filtros y orden de Mis proyectos
-├── components/assistant/ Chat de Lumi, botón flotante y ejecutor de acciones
-├── assistant/       Voz (Adapter), bus de acciones y conversación (Observer)
-├── patterns/        Modo patrones: qué patrones usa cada pantalla
-├── routes/          Páginas con carga diferida
-├── test/            Configuración de las pruebas de interfaz
-├── components/ui/   Botón, pestañas, paginador, modal y otras piezas compartidas
-├── components/      Piezas reutilizables de la interfaz
-├── context/         Sesión del usuario
-├── hooks/           Hooks propios
-├── services/        Cliente API y servicios
-├── styles/          Tokens de diseño y estilos
-├── types/           Tipos compartidos
-└── utils/           Validaciones
+├── config.ts                 Configuración leída de VITE_*
+├── navigation.ts             Menú lateral y menú inferior (con los roles que ven cada sección)
+├── pages/                    Una pantalla por ruta, con sus pruebas de interfaz
+├── routes/                   Páginas con carga diferida (Proxy virtual)
+├── components/
+│   ├── layout/               Menú lateral, menú inferior del celular y fondo animado
+│   ├── dashboard/            Tarjetas, progreso y proyectos del inicio
+│   ├── redesign/             Foto, opciones, comparador, versiones, ediciones e inspiración
+│   ├── editor/               Lienzo 3D (React Three Fiber), catálogo, inspector, habitación y versiones
+│   ├── assistant/            Chat de Lumi, botón flotante y esfera 3D
+│   ├── admin/                Resumen, usuarios, catálogo y reportes
+│   ├── patterns/, docs/      Modo patrones, fichas, demos y diagramas UML con Mermaid
+│   ├── three/, motion/       Escenas 3D del login y la intro, inclinación, volteo y coverflow
+│   └── ui/                   Botón, pestañas, paginador, chips y otras piezas compartidas
+├── editor/                   Lógica del editor: comandos, mediador, composite, fábricas, decoradores, temas
+├── assistant/                Voz (Adapter), bus de acciones y conversación (Observer)
+├── projects/, shopping/      Búsqueda, filtros y rutas de proyectos; lista de compras
+├── patterns/, docs/          Qué patrones usa cada pantalla y contenido de la Documentación
+├── services/                 Cliente API (Singleton) y un servicio por recurso
+├── context/, hooks/          Sesión del usuario y hooks propios
+├── styles/                   Tokens de diseño y estilos por sección
+├── test/                     Configuración compartida de las pruebas de interfaz
+├── types/                    Tipos compartidos
+└── utils/                    Formatos, medidas, fotos y validaciones
 ```
 
 ## Equipo
